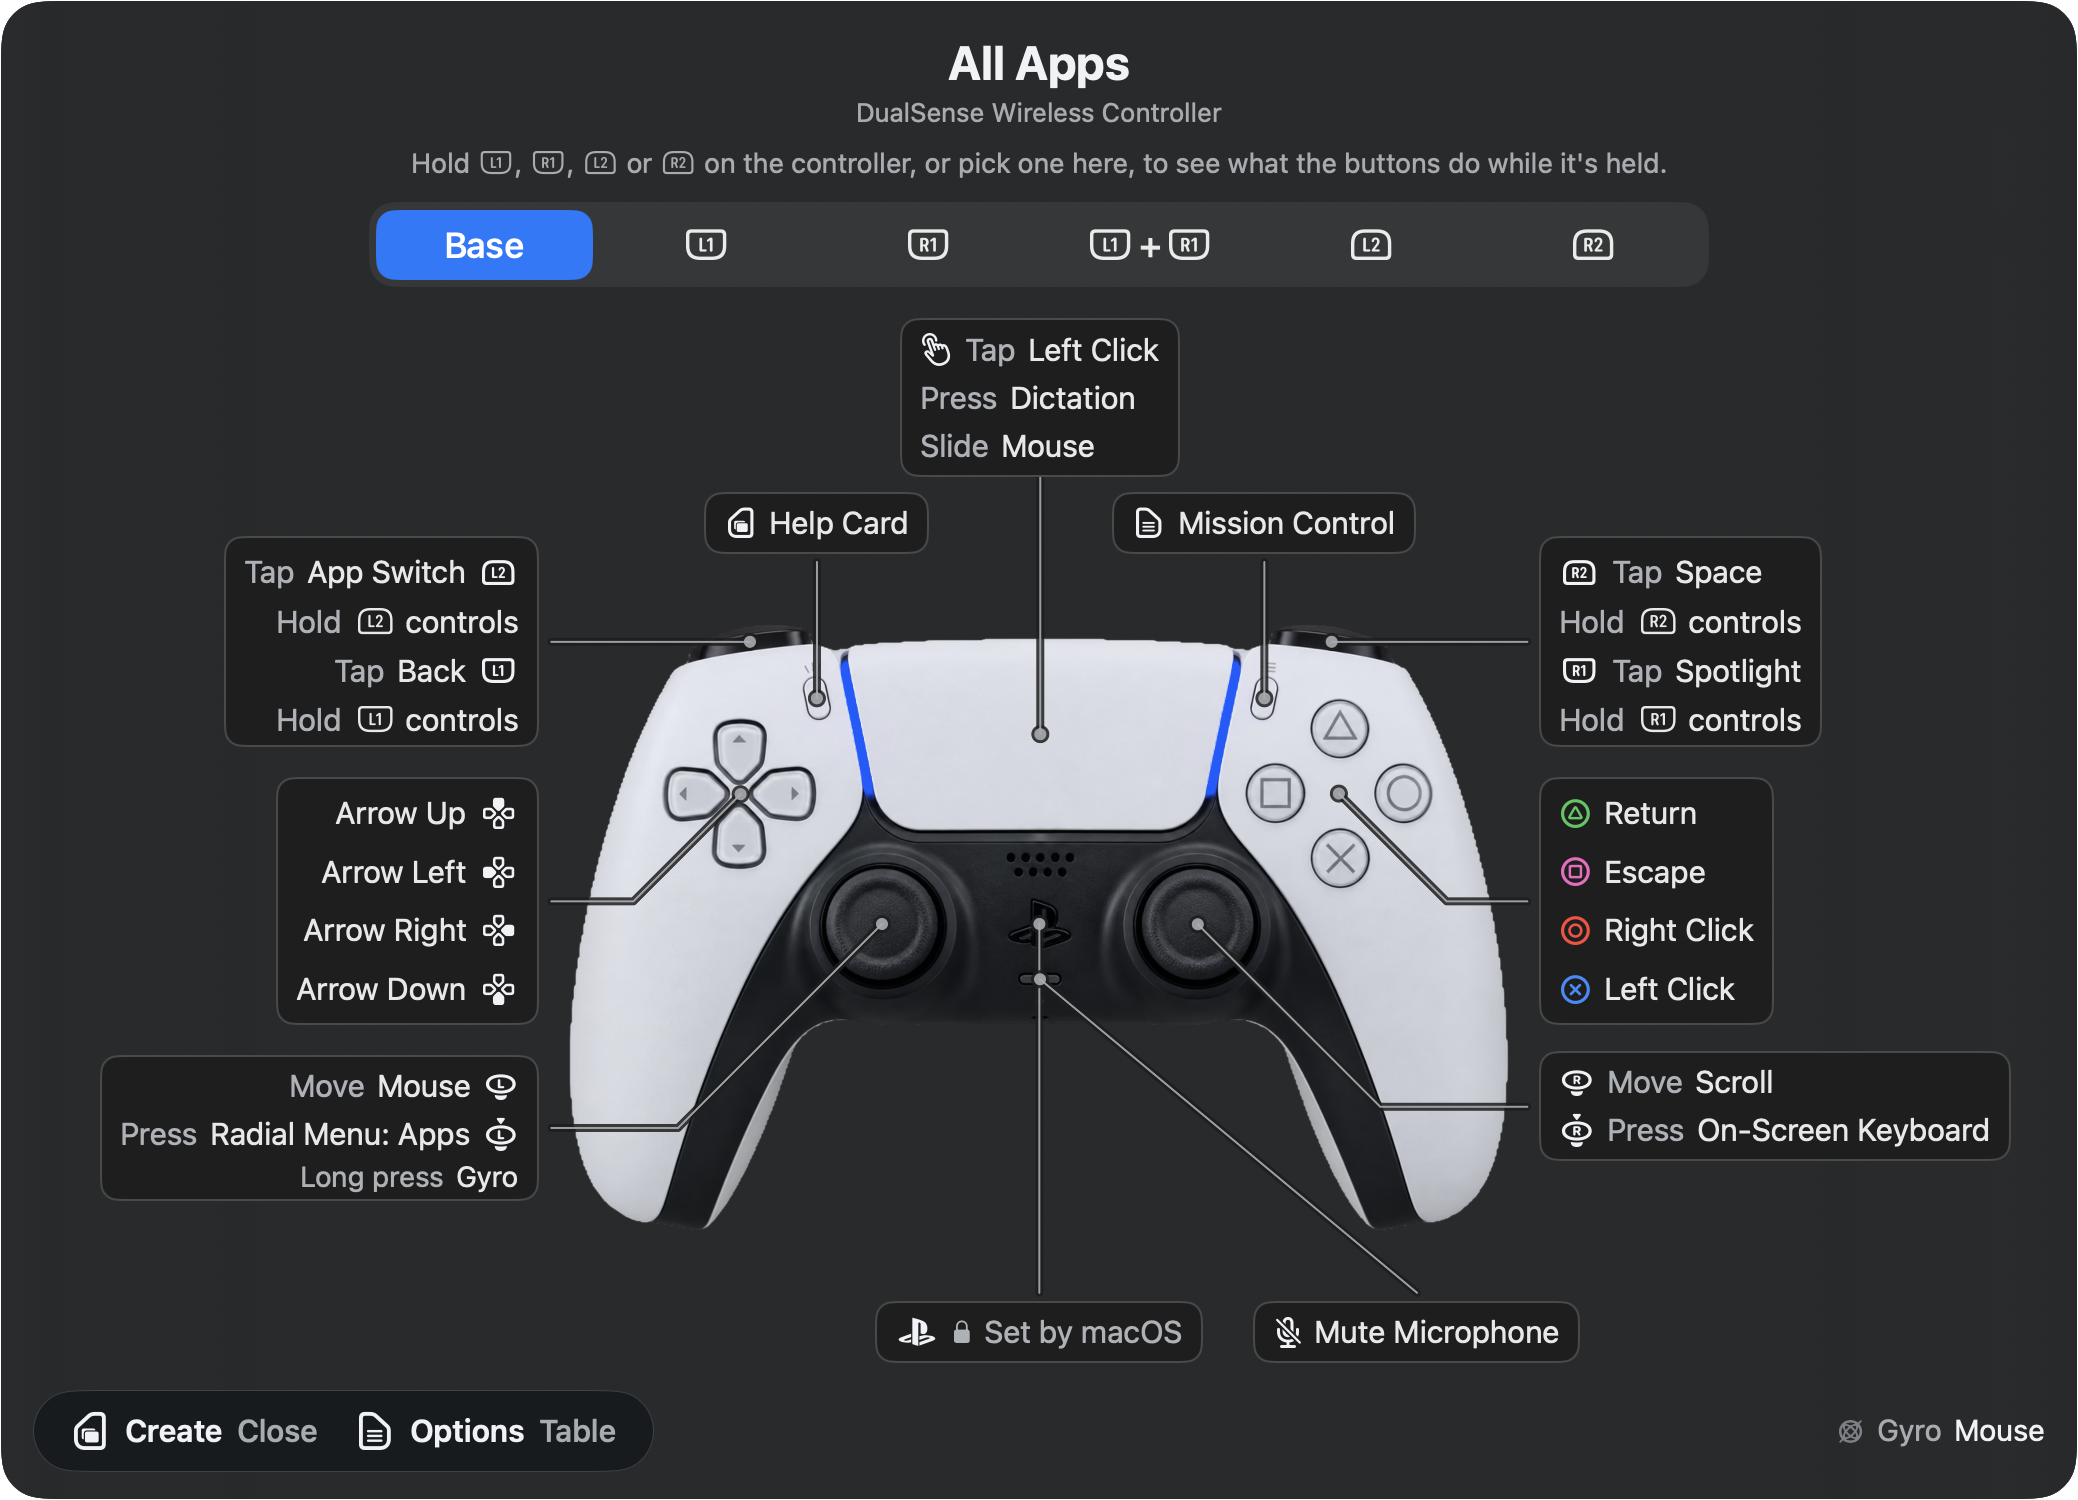
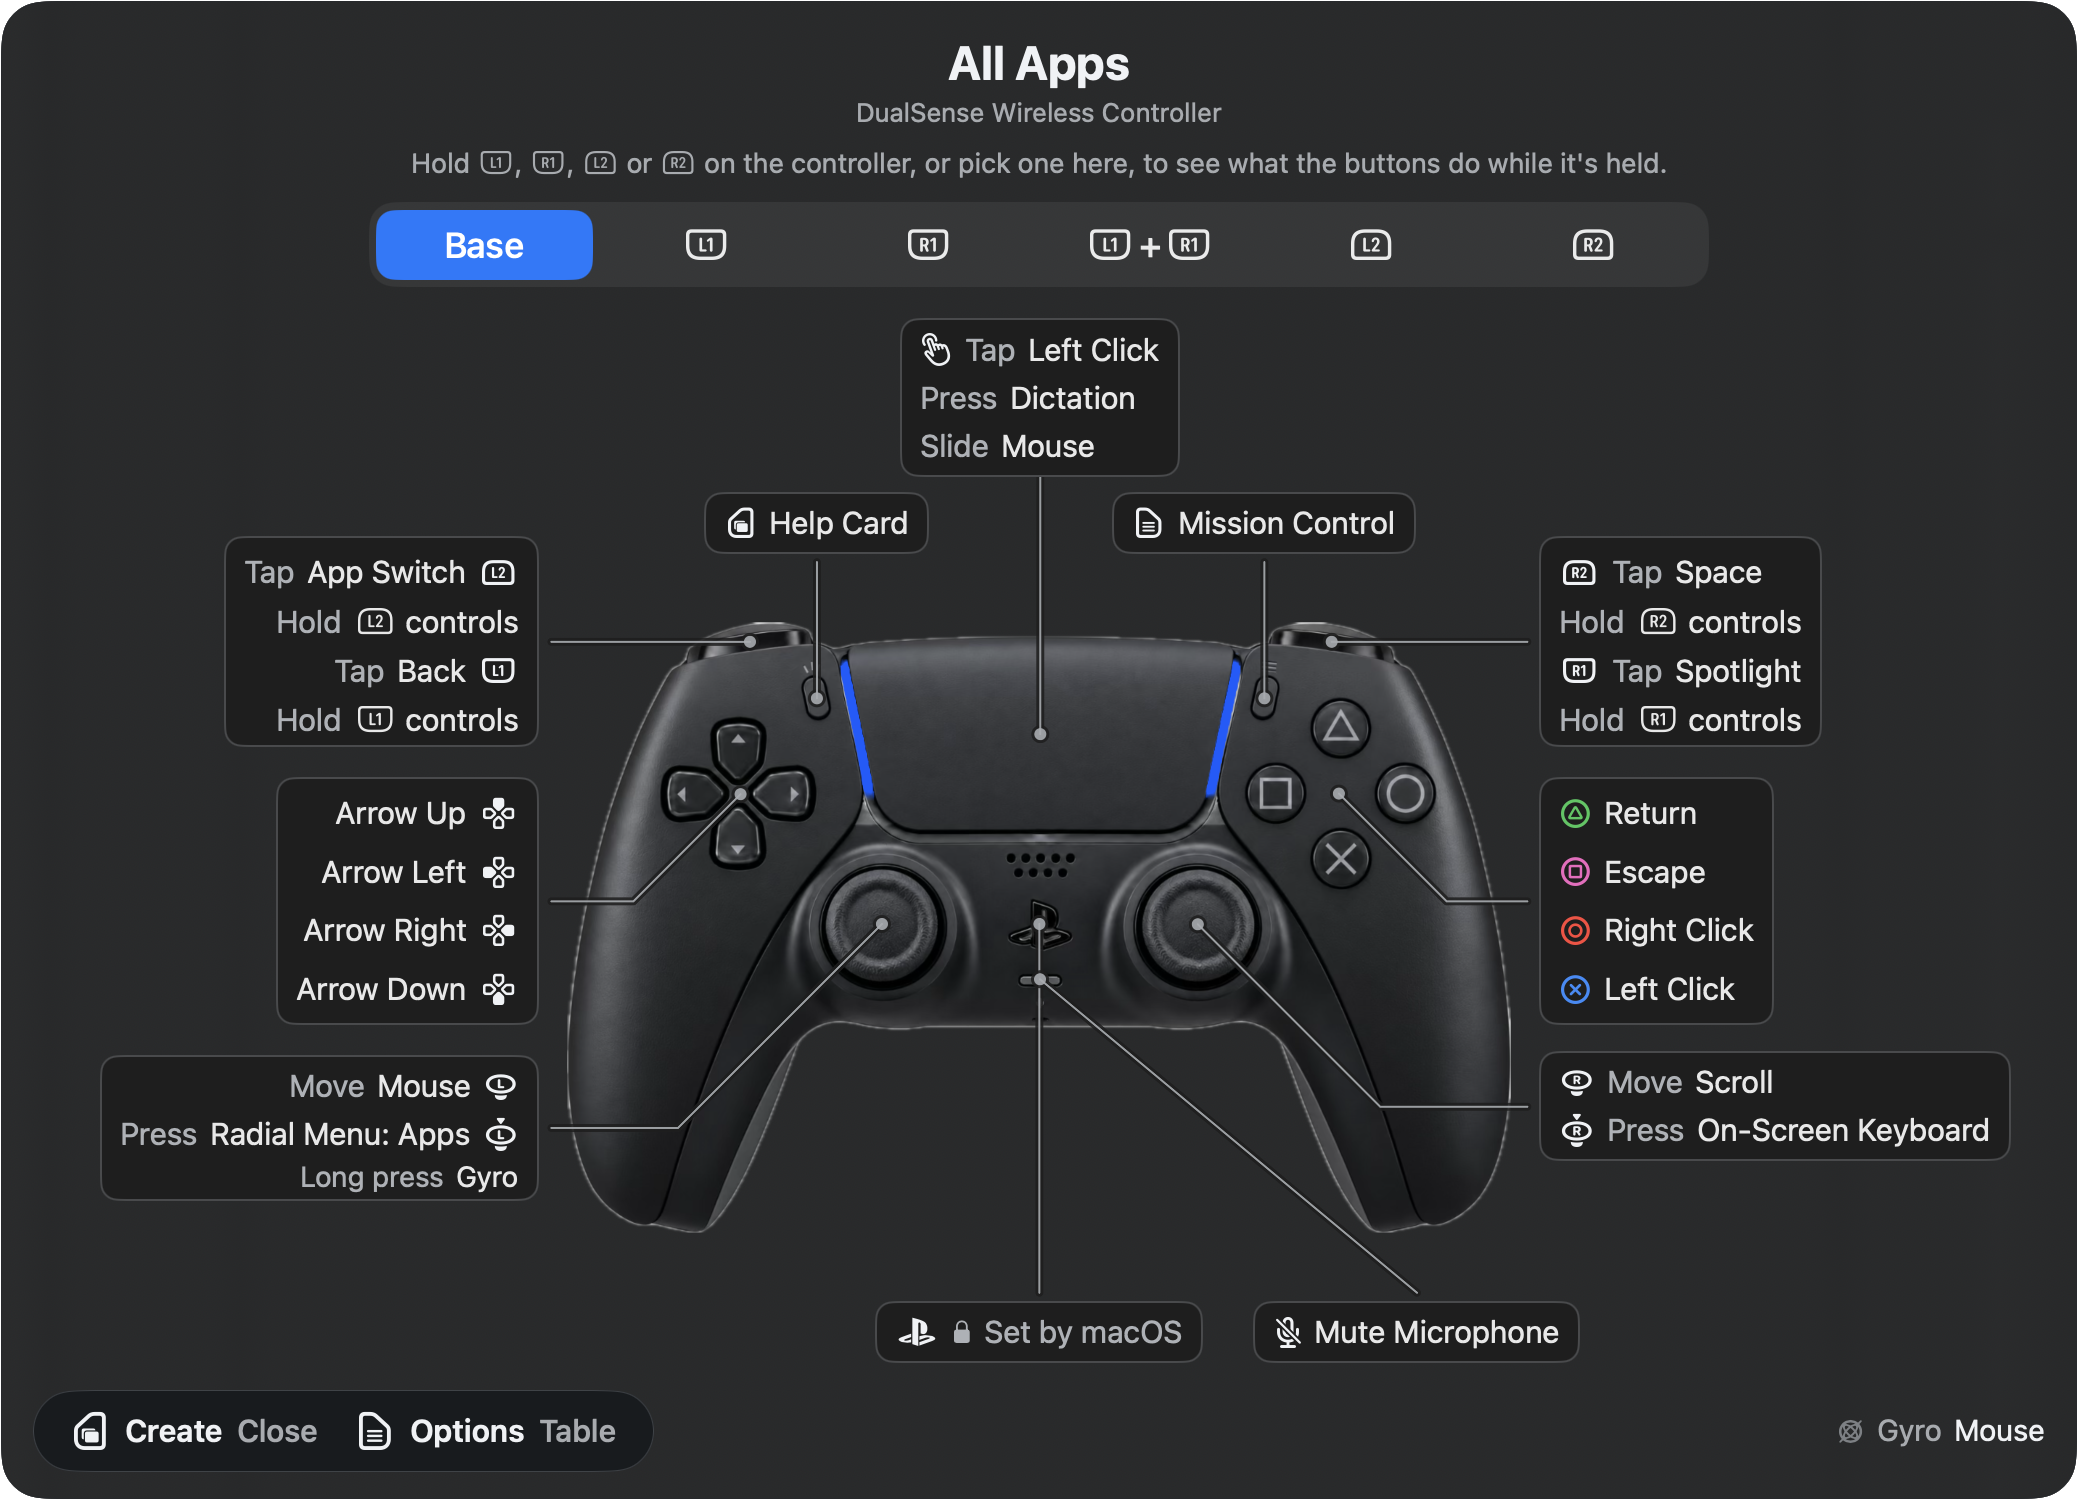
feat(home): the setup band's dark help card shows the app's dark DualSense
Recaptured with scripts/capture-app help (its first end-to-end run) against the
dev build carrying steer aeac9ac1, on a real DualSense: the app now draws the
Midnight Black pad in dark mode, with the live light bar laid over it. The band's
own pad follows the theme to match. The light capture came out pixel-identical
and was left as it was.

Claude-Session: https://claude.ai/code/session_01GX2gWPJawYTxbhY4pe3S6c

Changed region(s): [[0.2464, 0.3987, 0.7392, 0.828], [0.3696, 0.7053, 0.4004, 0.736]]

diff --git a/src/_includes/bands/home/setup.html b/src/_includes/bands/home/setup.html
@@ -8,7 +8,7 @@
   </div>
   <figure class="proof duo duo-help" data-wire="#hp-a #hp-b">
     <div class="effect"><div class="hcard"><span class="crop c-help">{{ help("light") }}{{ help("dark") }}</span><i class="at" id="hp-b"></i></div></div>
-    <div class="cause"><div class="pad" aria-hidden="true"><img src="assets/pads/cut-ps-unlit.png" eleventy:widths="300,600" width="1202" height="778" sizes="250px" loading="lazy" alt=""><svg viewBox="0 0 1502 972"><path class="on" d="M390,88 384,90 379,95 377,99 376,108 378,114 378,120 385,147 392,153 403,155 409,153 416,147 418,141 418,132 411,100 408,94 401,89Z"/></svg><i class="at" id="hp-a"></i></div></div>
+    <div class="cause"><div class="pad" aria-hidden="true"><img class="pad-lt" src="assets/pads/cut-ps-unlit.png" eleventy:widths="300,600" width="1202" height="778" sizes="250px" loading="lazy" alt=""><img class="pad-dk" src="assets/pads/cut-ps-unlit-dark.png" eleventy:widths="300,600" width="1202" height="778" sizes="250px" loading="lazy" alt=""><svg viewBox="0 0 1502 972"><path class="on" d="M390,88 384,90 379,95 377,99 376,108 378,114 378,120 385,147 392,153 403,155 409,153 416,147 418,141 418,132 411,100 408,94 401,89Z"/></svg><i class="at" id="hp-a"></i></div></div>
     <p class="say say-a" aria-hidden="true">Press Create</p>
     <p class="say say-b" aria-hidden="true">Every button, shown</p>
     <svg class="wire" aria-hidden="true"><path/><circle r="5"/></svg>
